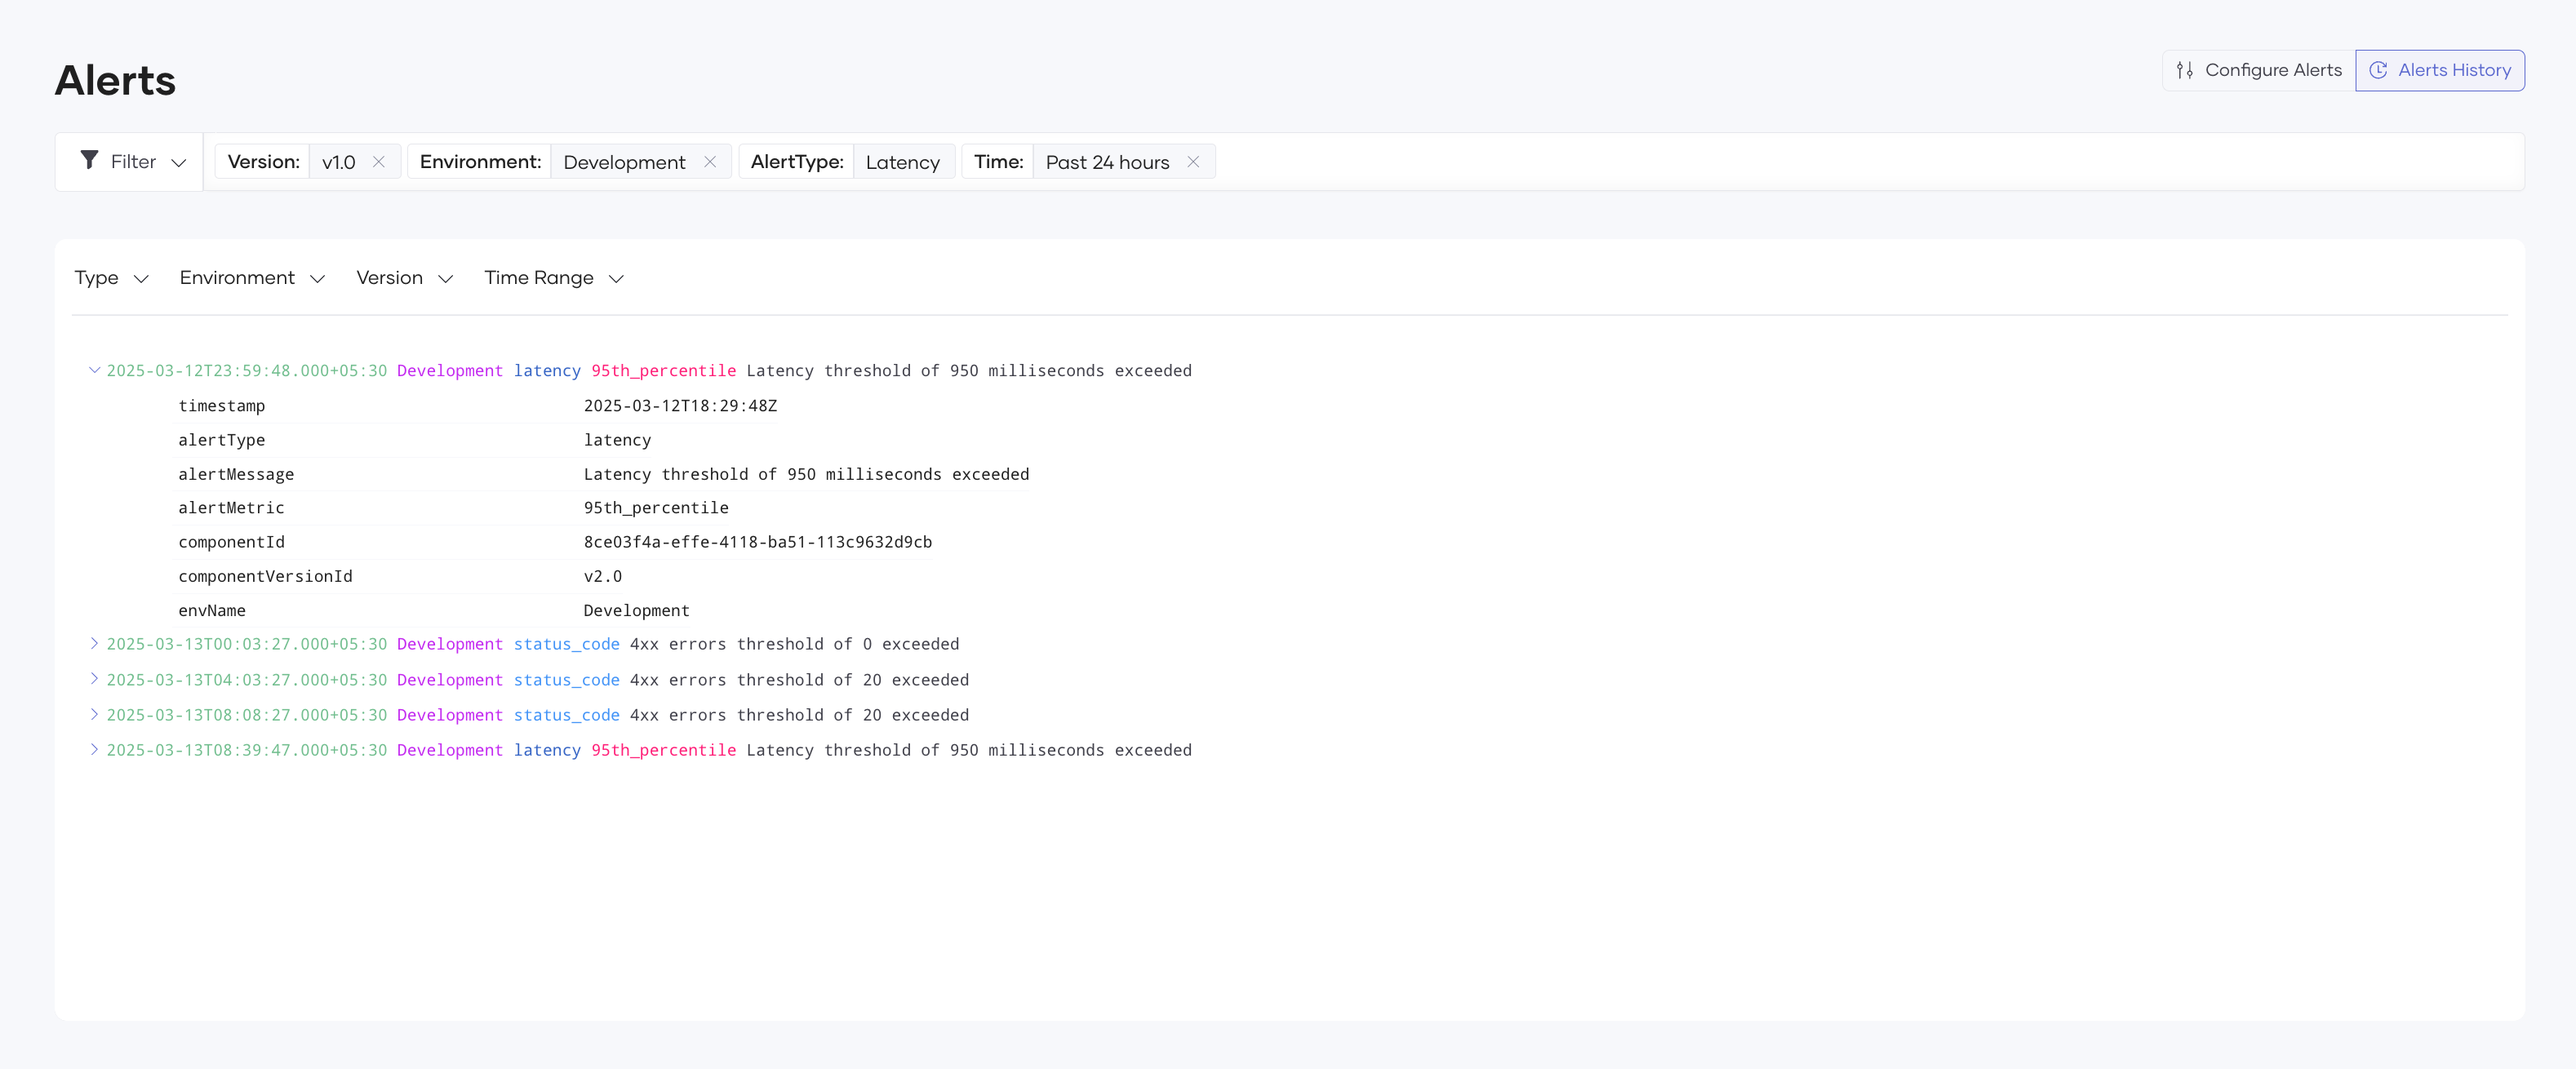
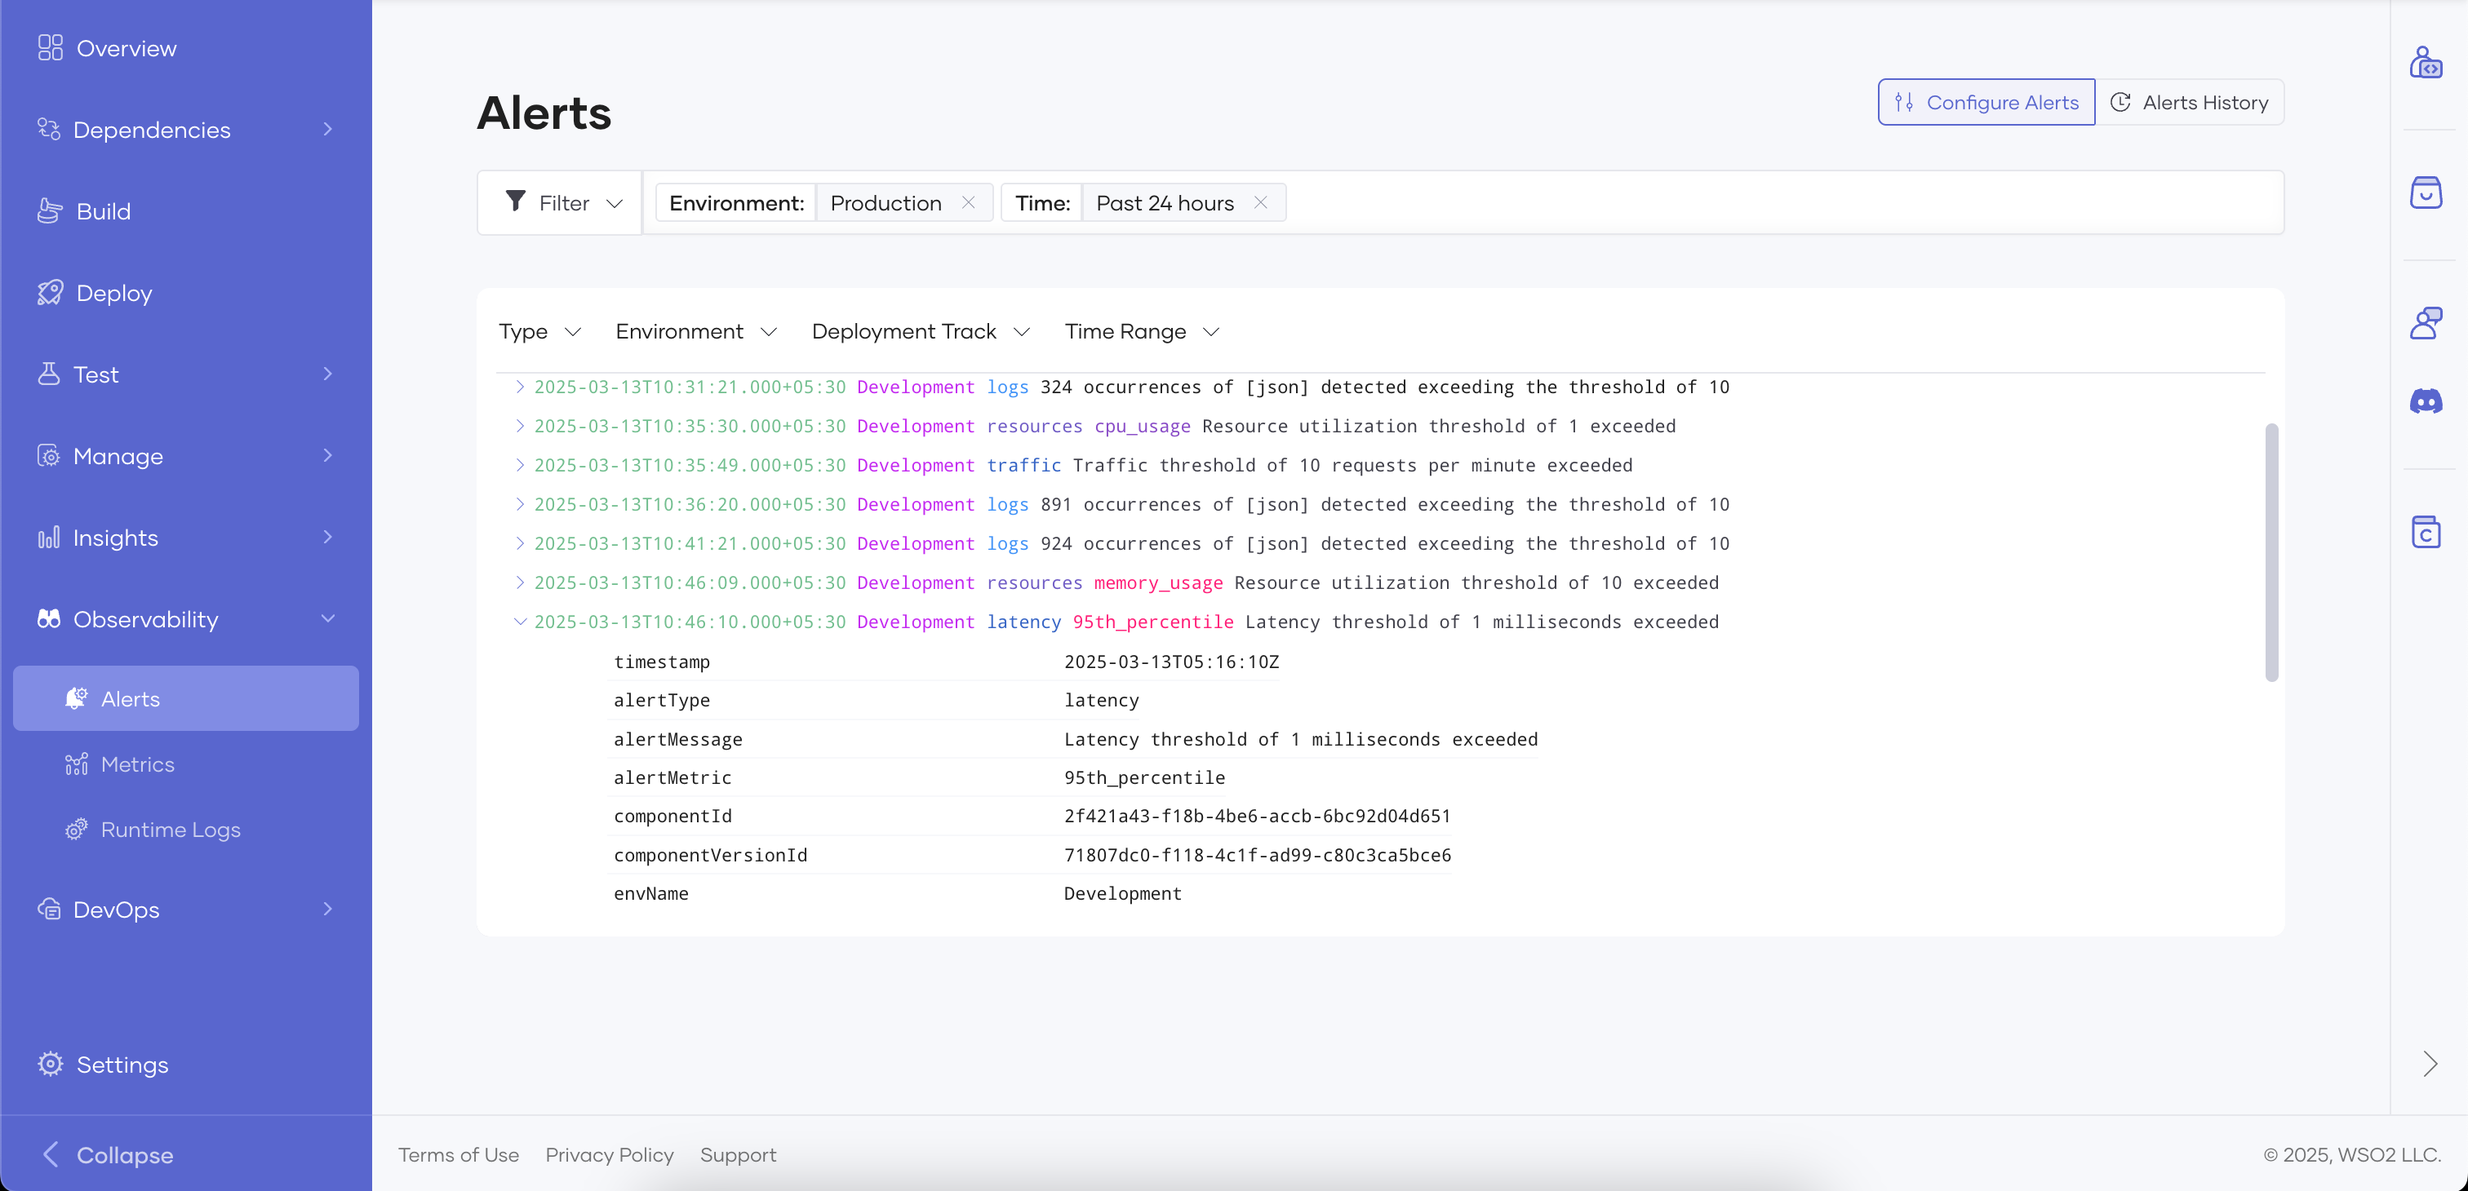
Add changes to documentation

diff --git a/en/docs/monitoring-and-insights/alerts-overview.md b/en/docs/monitoring-and-insights/alerts-overview.md
@@ -6,15 +6,15 @@ You can configure alerts for each environment within your organization. You can 
 
 !!! info
     - You can configure a maximum of 10 alerts per component.
-    - Adding email addresses to an alert configuration is optional. If necessary, you can add a maximum of 5 email addresses per alert.
+    - You can add a maximum of 5 email addresses per alert.
 
-Alerts can be categorized as [latency alerts](#latency-alerts) , [traffic alerts](#traffic-alerts) , [resources alerts](#resources-alerts) , [logs alerts](#logs-alerts) and [build failure alerts](#build-failure-alerts).
+Alerts can be categorized as [latency alerts](#latency-alerts) , [traffic alerts](#traffic-alerts) , [resources alerts](#resources-alerts) , [logs alerts](#logs-alerts), [build failure alerts](#build-failure-alerts) and [status code alerts](#status-code-alerts).
 
 ## Supported Alert Types
 
 ### Latency alerts
 
-Latency alerts notify you if the response latency of an component exceeds a predefined threshold. This is useful for components that need to meet specific SLAs and for proactively identifying slow components.
+Latency alerts notify you if the response latency of a component exceeds a predefined threshold in a given time period. This is useful for components that need to meet specific SLAs and for proactively identifying slow components.
 
 Configurable Parameters:
 
@@ -77,8 +77,8 @@ Configurable Parameters:
 If you are going to create an alert for the first time, follow the steps given below.
 
 1. Sign in to the [Choreo Console](https://console.choreo.dev/).
-2. Ensure you are in the correct organization where you have a project with the component to configure a latency alert.
-3. Navigate to the component by clicking on the project with the component to configure a latency alert.
+2. Ensure you are in the correct organization where you have a project with the component to configure an alert.
+3. Navigate to the component by clicking on the project with the component to configure an alert.
 4. Click the component.
 
     !!! info
@@ -125,10 +125,21 @@ If you are going to create an alert for the first time, follow the steps given b
     !!! note
         when editing the alert, you can't edit the **Alert Type**, **Environment** and **Deployment Track**.
 
-## Alert History
+## Alert History & Notifications
 
-Alert history will show   **Configure Alerts** pane.
+### View Alert History
 
-![Configure Alerts](../assets/img/monitoring-and-insights/alerts/alert-history.png){.cInlineImage-full}
+You can check the past alerts that have triggered for your component when you click the  **Alerts History** pane in Choreo Alerts. You can filter the alert history by **Alert Type**, **Environment**, **Deployment Track** or **Version** and **Time Range**.
 
-Confirm your changes.
+!!! note  
+    When filtering, **API Proxy components** show a **Version** filter and Other components display a **Deployment Track** filter, based on their monitoring context.  
+
+You can click on an alert to expand it and see more details of the triggered alert.
+
+![Alerts History](../assets/img/monitoring-and-insights/alerts/alert-history.png){.cInlineImage-full}
+
+### Email Notifications
+
+When an alert is triggered, **recipients** added to the alert rule recieve an email with **alert details** including a direct **View Alert** link to Alert page in Choreo console.
+
+![Email Notification](../assets/img/monitoring-and-insights/alerts/email-notification.png){.cInlineImage-full}
